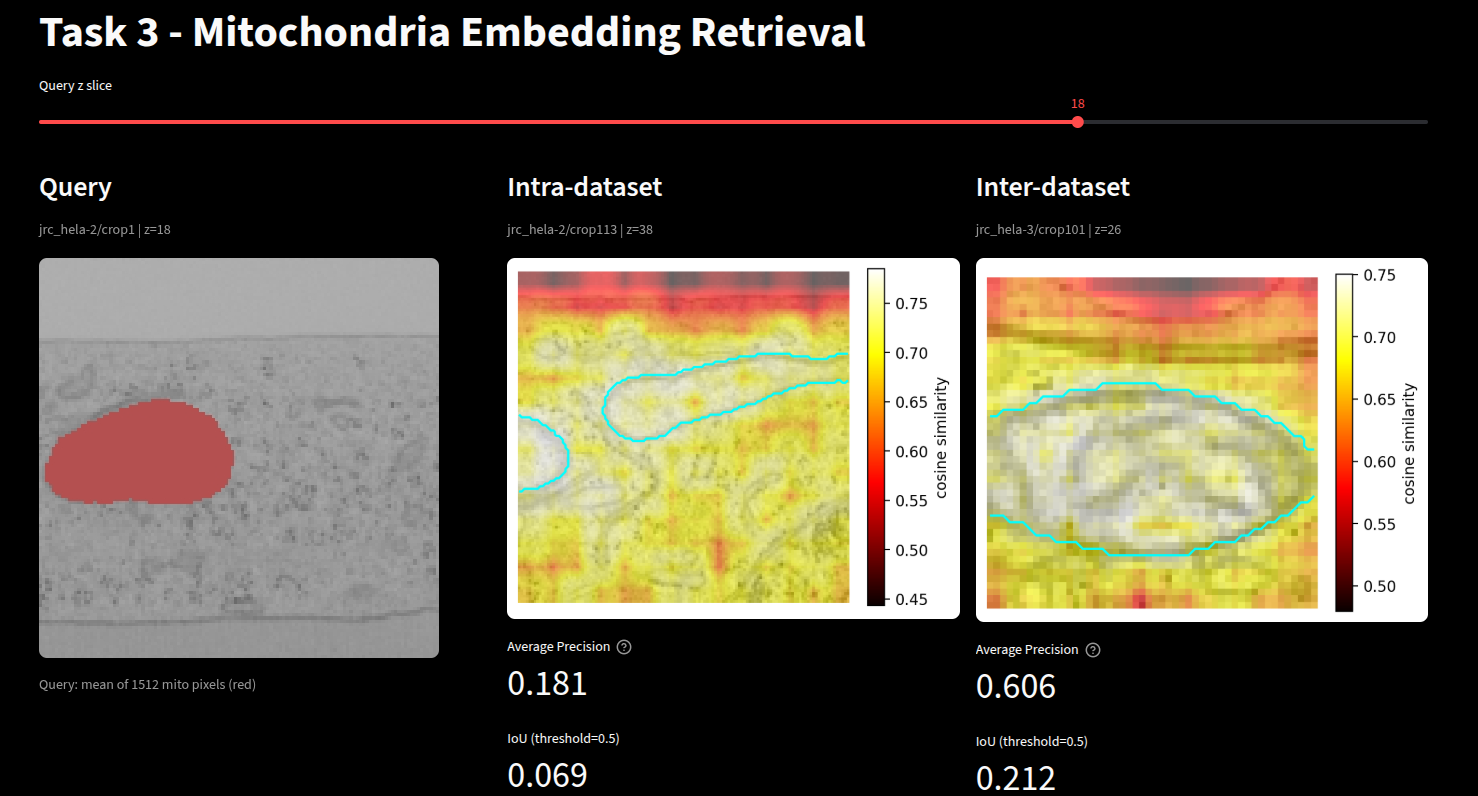
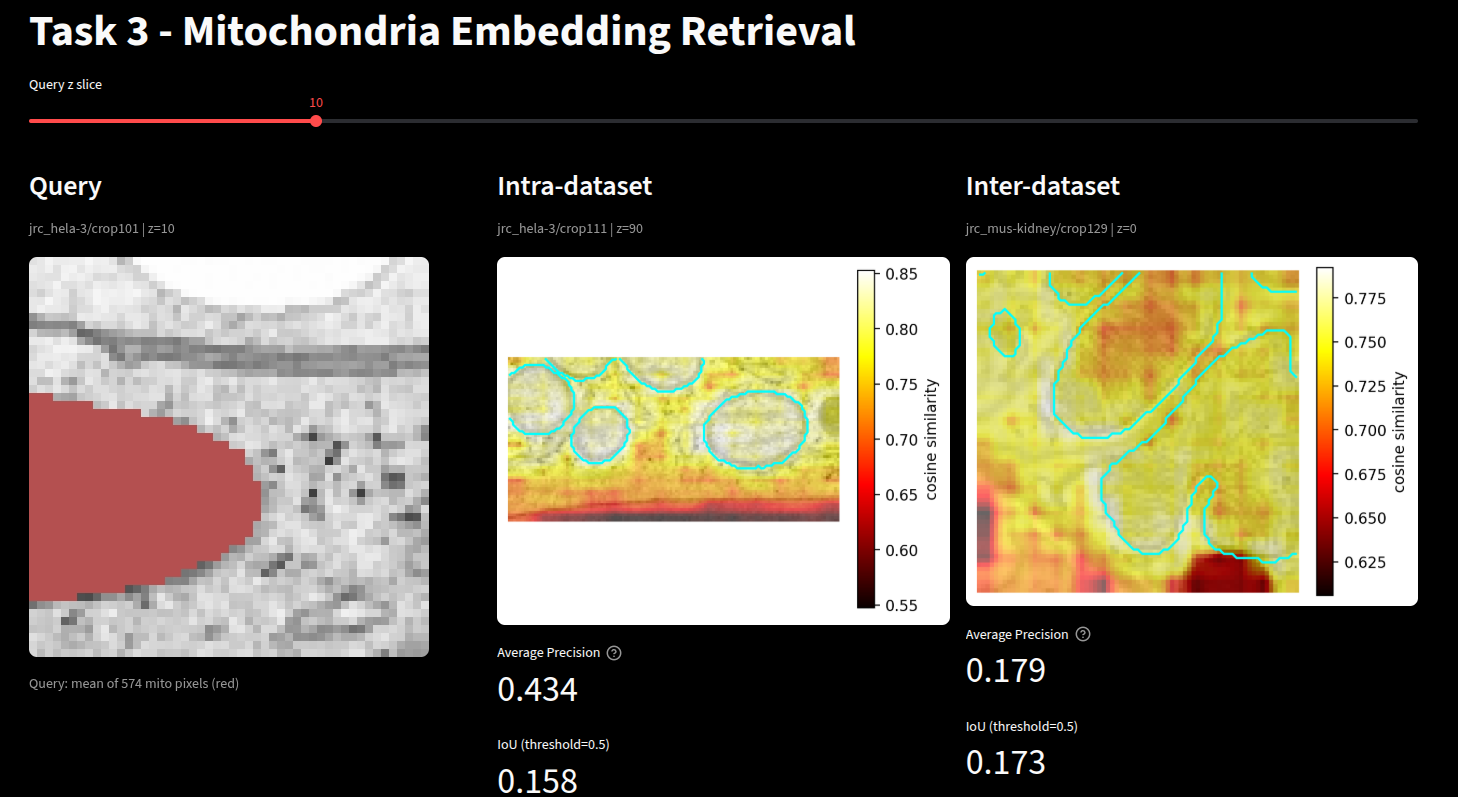
added metrics for new validation dataset

diff --git a/task2/README.md b/task2/README.md
@@ -14,7 +14,7 @@ Requires a CUDA-capable GPU (~1.4 GB VRAM for ViT-L, ~7 GB RAM after model load)
 [`download_datasets.py`](download_datasets.py) downloads EM image patches and mitochondria masks from the [OpenOrganelle](https://openorganelle.janelia.org) S3 bucket (public, anonymous access).
 
 Datasets, S3 path, resolution scale, and output directory are all set in `config.yaml`:
-- `DATASET_NAMES` - list of datasets to download (`jrc_hela-2`, `jrc_hela-3`)
+- `DATASET_NAMES` - list of datasets to download (`jrc_hela-2`, `jrc_hela-3`, `jrc_mus-kidney`)
 - `S3_PATH` - base S3 bucket path
 - `SCALE` - resolution level (`s2` by default)
 - `DATA_DIR` - local output directory
@@ -31,7 +31,11 @@ data/
 │   └── crop_X/
 │       ├── em.npy
 │       └── mito_mask.npy
-└── jrc_hela-3/
+├── jrc_hela-3/
+│   └── crop_X/
+│       ├── em.npy
+│       └── mito_mask.npy
+└── jrc_mus-kidney/
     └── crop_X/
         ├── em.npy
         └── mito_mask.npy
@@ -107,7 +111,7 @@ The same mean mito query embedding is compared against embeddings from a crop in
 
 Cross-dataset similarity scores show slightly less contrast than intra-dataset due to minor differences in imaging conditions, but mito regions in the target still score visibly higher than background, confirming the embeddings capture organelle-level semantics without any domain-specific training.
 
-Query mitochondrion with red mask (left), cosine similarity heat map on same-dataset crop (centre) and cross-dataset crop (right). Cyan contour = ground-truth mito mask boundary. Two metrics are shown below each target, both computed over the full 3D volume (all z-slices):
+Query mitochondrion (jrc_hela-3/crop101, red mask, left), cosine similarity heat map on same-dataset crop jrc_hela-3/crop111 (centre) and cross-dataset crop jrc_mus-kidney/crop129 (right). Cyan contour = ground-truth mito mask boundary. Two metrics are shown below each target, both computed over the full 3D volume (all z-slices):
 
 - **Average Precision (AP)** — area under the precision-recall curve against the binary mito mask. Measures how well the similarity ranking recovers mito pixels. AP = 1.0 means all mito pixels ranked above all background pixels.
 - **IoU (threshold=0.5)** — similarity map thresholded at 0.5, then intersection-over-union against GT mito mask. Measures boundary precision — how well the predicted region overlaps the actual mito region.
@@ -147,10 +151,10 @@ Cosine similarity retrieval using projected 256-dim embeddings from the trained 
 
 | | AP | IoU (threshold=0.5) |
 |---|---|---|
-| Raw DINOv3 intra-dataset | 0.181 | 0.069 |
-| Raw DINOv3 inter-dataset | 0.606 | 0.212 |
-| Linear probe intra-dataset | 0.815 | 0.646 |
-| Linear probe inter-dataset | 0.988 | 0.898 |
+| Raw DINOv3 intra-dataset (hela-3/crop101 → hela-3/crop111) | 0.434 | 0.158 |
+| Raw DINOv3 inter-dataset (hela-3/crop101 → mus-kidney/crop129) | 0.179 | 0.173 |
+| Linear probe intra-dataset | 0.968 | 0.797 |
+| Linear probe inter-dataset | 0.862 | 0.638 |
 
 ![Task 4 linear probe retrieval](screenshots/task4_linear_probe.png)
 
@@ -165,6 +169,7 @@ S3_PATH: s3://janelia-cosem-datasets
 DATASET_NAMES:
   - jrc_hela-2
   - jrc_hela-3
+  - jrc_mus-kidney
 SCALE: s2
 DATA_DIR: data
 MODEL_NAME: facebook/dinov3-vitl16-pretrain-lvd1689m
@@ -175,8 +180,9 @@ LR: 0.001
 SEED: 42
 TRAIN_DATASETS:
   - jrc_hela-2
-EVAL_DATASETS:
   - jrc_hela-3
+EVAL_DATASETS:
+  - jrc_mus-kidney
 DISPLAY_SIZE: 400
 ```
 
